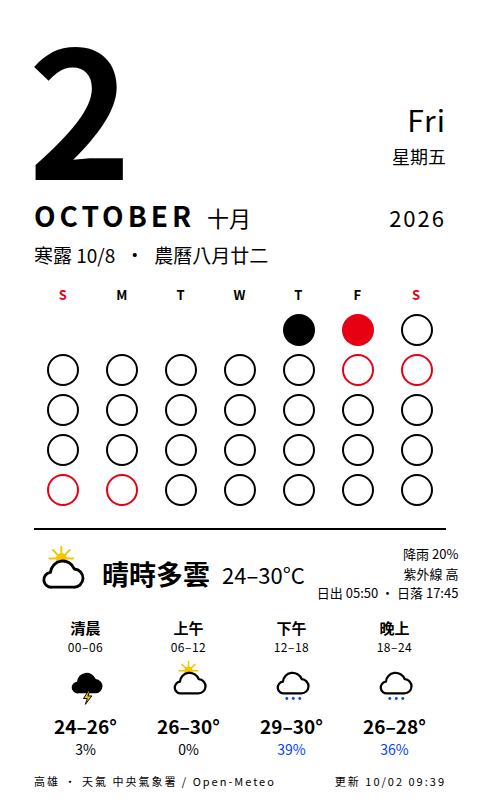
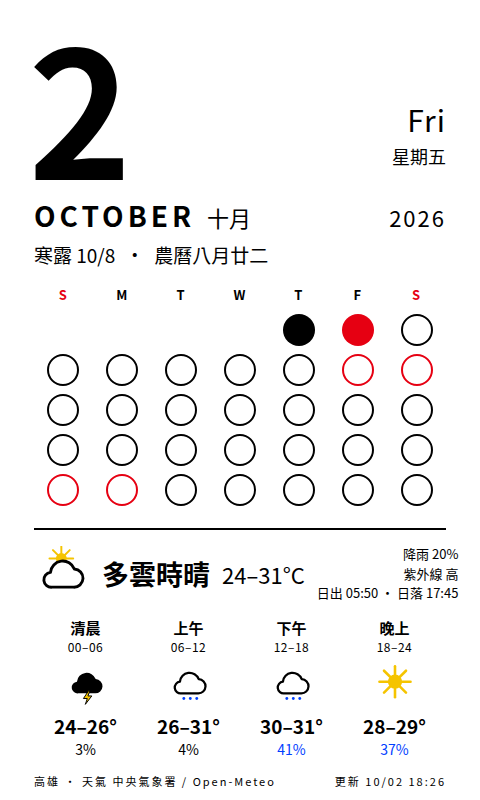
deploy: cf7d1051eb6821bc691ba0ade4beb12cdf9fe0ef

diff --git a/calendar.html b/calendar.html
@@ -54,9 +54,9 @@
   <div class="today"><span class="lunar">寒露 10/8</span><span>·</span><span class="lunar">農曆八月廿二</span></div>
   <div class="grid"><div class="h we">S</div><div class="h">M</div><div class="h">T</div><div class="h">W</div><div class="h">T</div><div class="h">F</div><div class="h we">S</div><div class="dot empty"></div><div class="dot empty"></div><div class="dot empty"></div><div class="dot empty"></div><div class="dot past" title="1"></div><div class="dot now" title="2"></div><div class="dot future" title="3"></div><div class="dot future" title="4"></div><div class="dot future" title="5"></div><div class="dot future" title="6"></div><div class="dot future" title="7"></div><div class="dot future" title="8"></div><div class="dot future hol" title="9"></div><div class="dot future hol" title="10"></div><div class="dot future" title="11"></div><div class="dot future" title="12"></div><div class="dot future" title="13"></div><div class="dot future" title="14"></div><div class="dot future" title="15"></div><div class="dot future" title="16"></div><div class="dot future" title="17"></div><div class="dot future" title="18"></div><div class="dot future" title="19"></div><div class="dot future" title="20"></div><div class="dot future" title="21"></div><div class="dot future" title="22"></div><div class="dot future" title="23"></div><div class="dot future" title="24"></div><div class="dot future hol" title="25"></div><div class="dot future hol" title="26"></div><div class="dot future" title="27"></div><div class="dot future" title="28"></div><div class="dot future" title="29"></div><div class="dot future" title="30"></div><div class="dot future" title="31"></div></div>
   <div class="wx"><div class="line">
-    <div class="wxhead"><svg viewBox="0 0 64 68" xmlns="http://www.w3.org/2000/svg"><g transform="translate(12 -4) scale(.6)"><circle cx="32" cy="32" r="11" fill="#f5c400"/><g stroke="#f5c400" stroke-width="4" stroke-linecap="round"><line x1="32" y1="32" x2="32" y2="8" transform="rotate(0 32 32)"/><line x1="32" y1="32" x2="32" y2="8" transform="rotate(45 32 32)"/><line x1="32" y1="32" x2="32" y2="8" transform="rotate(90 32 32)"/><line x1="32" y1="32" x2="32" y2="8" transform="rotate(135 32 32)"/><line x1="32" y1="32" x2="32" y2="8" transform="rotate(180 32 32)"/><line x1="32" y1="32" x2="32" y2="8" transform="rotate(225 32 32)"/><line x1="32" y1="32" x2="32" y2="8" transform="rotate(270 32 32)"/><line x1="32" y1="32" x2="32" y2="8" transform="rotate(315 32 32)"/></g></g><path d="M20 50h26a11 11 0 0 0 1-22 15 15 0 0 0-29 4 9 9 0 0 0 2 18z" fill="#fff" stroke="#000" stroke-width="3.5" stroke-linejoin="round"/></svg><span class="desc">晴時多雲</span><span class="temp">24–30°C</span>
+    <div class="wxhead"><svg viewBox="0 0 64 68" xmlns="http://www.w3.org/2000/svg"><g transform="translate(12 -4) scale(.6)"><circle cx="32" cy="32" r="11" fill="#f5c400"/><g stroke="#f5c400" stroke-width="4" stroke-linecap="round"><line x1="32" y1="32" x2="32" y2="8" transform="rotate(0 32 32)"/><line x1="32" y1="32" x2="32" y2="8" transform="rotate(45 32 32)"/><line x1="32" y1="32" x2="32" y2="8" transform="rotate(90 32 32)"/><line x1="32" y1="32" x2="32" y2="8" transform="rotate(135 32 32)"/><line x1="32" y1="32" x2="32" y2="8" transform="rotate(180 32 32)"/><line x1="32" y1="32" x2="32" y2="8" transform="rotate(225 32 32)"/><line x1="32" y1="32" x2="32" y2="8" transform="rotate(270 32 32)"/><line x1="32" y1="32" x2="32" y2="8" transform="rotate(315 32 32)"/></g></g><path d="M20 50h26a11 11 0 0 0 1-22 15 15 0 0 0-29 4 9 9 0 0 0 2 18z" fill="#fff" stroke="#000" stroke-width="3.5" stroke-linejoin="round"/></svg><span class="desc">多雲時晴</span><span class="temp">24–31°C</span>
       <div class="meta">降雨 20%<br>紫外線 高<br>日出 05:50 · 日落 17:45</div></div>
-    <div class="slots"><div class="slot"><div class="n">清晨</div><div class="hrs">00–06</div><svg viewBox="0 0 64 68" xmlns="http://www.w3.org/2000/svg"><path d="M20 50h26a11 11 0 0 0 1-22 15 15 0 0 0-29 4 9 9 0 0 0 2 18z" fill="#000"/><path d="M36 46l-8 12h6l-3 9 10-13h-6l3-8z" fill="#f5c400" stroke="#000" stroke-width="1.5" stroke-linejoin="round"/></svg><div class="t">24–26°</div><div class="p dry">3%</div></div><div class="slot"><div class="n">上午</div><div class="hrs">06–12</div><svg viewBox="0 0 64 68" xmlns="http://www.w3.org/2000/svg"><g transform="translate(12 -4) scale(.6)"><circle cx="32" cy="32" r="11" fill="#f5c400"/><g stroke="#f5c400" stroke-width="4" stroke-linecap="round"><line x1="32" y1="32" x2="32" y2="8" transform="rotate(0 32 32)"/><line x1="32" y1="32" x2="32" y2="8" transform="rotate(45 32 32)"/><line x1="32" y1="32" x2="32" y2="8" transform="rotate(90 32 32)"/><line x1="32" y1="32" x2="32" y2="8" transform="rotate(135 32 32)"/><line x1="32" y1="32" x2="32" y2="8" transform="rotate(180 32 32)"/><line x1="32" y1="32" x2="32" y2="8" transform="rotate(225 32 32)"/><line x1="32" y1="32" x2="32" y2="8" transform="rotate(270 32 32)"/><line x1="32" y1="32" x2="32" y2="8" transform="rotate(315 32 32)"/></g></g><path d="M20 50h26a11 11 0 0 0 1-22 15 15 0 0 0-29 4 9 9 0 0 0 2 18z" fill="#fff" stroke="#000" stroke-width="3.5" stroke-linejoin="round"/></svg><div class="t">26–30°</div><div class="p dry">0%</div></div><div class="slot"><div class="n">下午</div><div class="hrs">12–18</div><svg viewBox="0 0 64 68" xmlns="http://www.w3.org/2000/svg"><path d="M20 50h26a11 11 0 0 0 1-22 15 15 0 0 0-29 4 9 9 0 0 0 2 18z" fill="#fff" stroke="#000" stroke-width="3.5" stroke-linejoin="round"/><g fill="#0040ff"><circle cx="24" cy="58" r="2.2"/><circle cx="34" cy="58" r="2.2"/><circle cx="44" cy="58" r="2.2"/></g></svg><div class="t">29–30°</div><div class="p ">39%</div></div><div class="slot"><div class="n">晚上</div><div class="hrs">18–24</div><svg viewBox="0 0 64 68" xmlns="http://www.w3.org/2000/svg"><path d="M20 50h26a11 11 0 0 0 1-22 15 15 0 0 0-29 4 9 9 0 0 0 2 18z" fill="#fff" stroke="#000" stroke-width="3.5" stroke-linejoin="round"/><g fill="#0040ff"><circle cx="24" cy="58" r="2.2"/><circle cx="34" cy="58" r="2.2"/><circle cx="44" cy="58" r="2.2"/></g></svg><div class="t">26–28°</div><div class="p ">36%</div></div></div>
+    <div class="slots"><div class="slot"><div class="n">清晨</div><div class="hrs">00–06</div><svg viewBox="0 0 64 68" xmlns="http://www.w3.org/2000/svg"><path d="M20 50h26a11 11 0 0 0 1-22 15 15 0 0 0-29 4 9 9 0 0 0 2 18z" fill="#000"/><path d="M36 46l-8 12h6l-3 9 10-13h-6l3-8z" fill="#f5c400" stroke="#000" stroke-width="1.5" stroke-linejoin="round"/></svg><div class="t">24–26°</div><div class="p dry">3%</div></div><div class="slot"><div class="n">上午</div><div class="hrs">06–12</div><svg viewBox="0 0 64 68" xmlns="http://www.w3.org/2000/svg"><path d="M20 50h26a11 11 0 0 0 1-22 15 15 0 0 0-29 4 9 9 0 0 0 2 18z" fill="#fff" stroke="#000" stroke-width="3.5" stroke-linejoin="round"/><g fill="#0040ff"><circle cx="24" cy="58" r="2.2"/><circle cx="34" cy="58" r="2.2"/><circle cx="44" cy="58" r="2.2"/></g></svg><div class="t">26–31°</div><div class="p dry">4%</div></div><div class="slot"><div class="n">下午</div><div class="hrs">12–18</div><svg viewBox="0 0 64 68" xmlns="http://www.w3.org/2000/svg"><path d="M20 50h26a11 11 0 0 0 1-22 15 15 0 0 0-29 4 9 9 0 0 0 2 18z" fill="#fff" stroke="#000" stroke-width="3.5" stroke-linejoin="round"/><g fill="#0040ff"><circle cx="24" cy="58" r="2.2"/><circle cx="34" cy="58" r="2.2"/><circle cx="44" cy="58" r="2.2"/></g></svg><div class="t">30–31°</div><div class="p ">41%</div></div><div class="slot"><div class="n">晚上</div><div class="hrs">18–24</div><svg viewBox="0 0 64 68" xmlns="http://www.w3.org/2000/svg"><circle cx="32" cy="32" r="11" fill="#f5c400"/><g stroke="#f5c400" stroke-width="4" stroke-linecap="round"><line x1="32" y1="32" x2="32" y2="8" transform="rotate(0 32 32)"/><line x1="32" y1="32" x2="32" y2="8" transform="rotate(45 32 32)"/><line x1="32" y1="32" x2="32" y2="8" transform="rotate(90 32 32)"/><line x1="32" y1="32" x2="32" y2="8" transform="rotate(135 32 32)"/><line x1="32" y1="32" x2="32" y2="8" transform="rotate(180 32 32)"/><line x1="32" y1="32" x2="32" y2="8" transform="rotate(225 32 32)"/><line x1="32" y1="32" x2="32" y2="8" transform="rotate(270 32 32)"/><line x1="32" y1="32" x2="32" y2="8" transform="rotate(315 32 32)"/></g></svg><div class="t">28–29°</div><div class="p ">37%</div></div></div>
   </div></div>
-  <div class="foot"><span>高雄 · 天氣 中央氣象署 / Open-Meteo</span><span>更新 10/02 09:39</span></div>
+  <div class="foot"><span>高雄 · 天氣 中央氣象署 / Open-Meteo</span><span>更新 10/02 18:26</span></div>
 </div></body></html>
